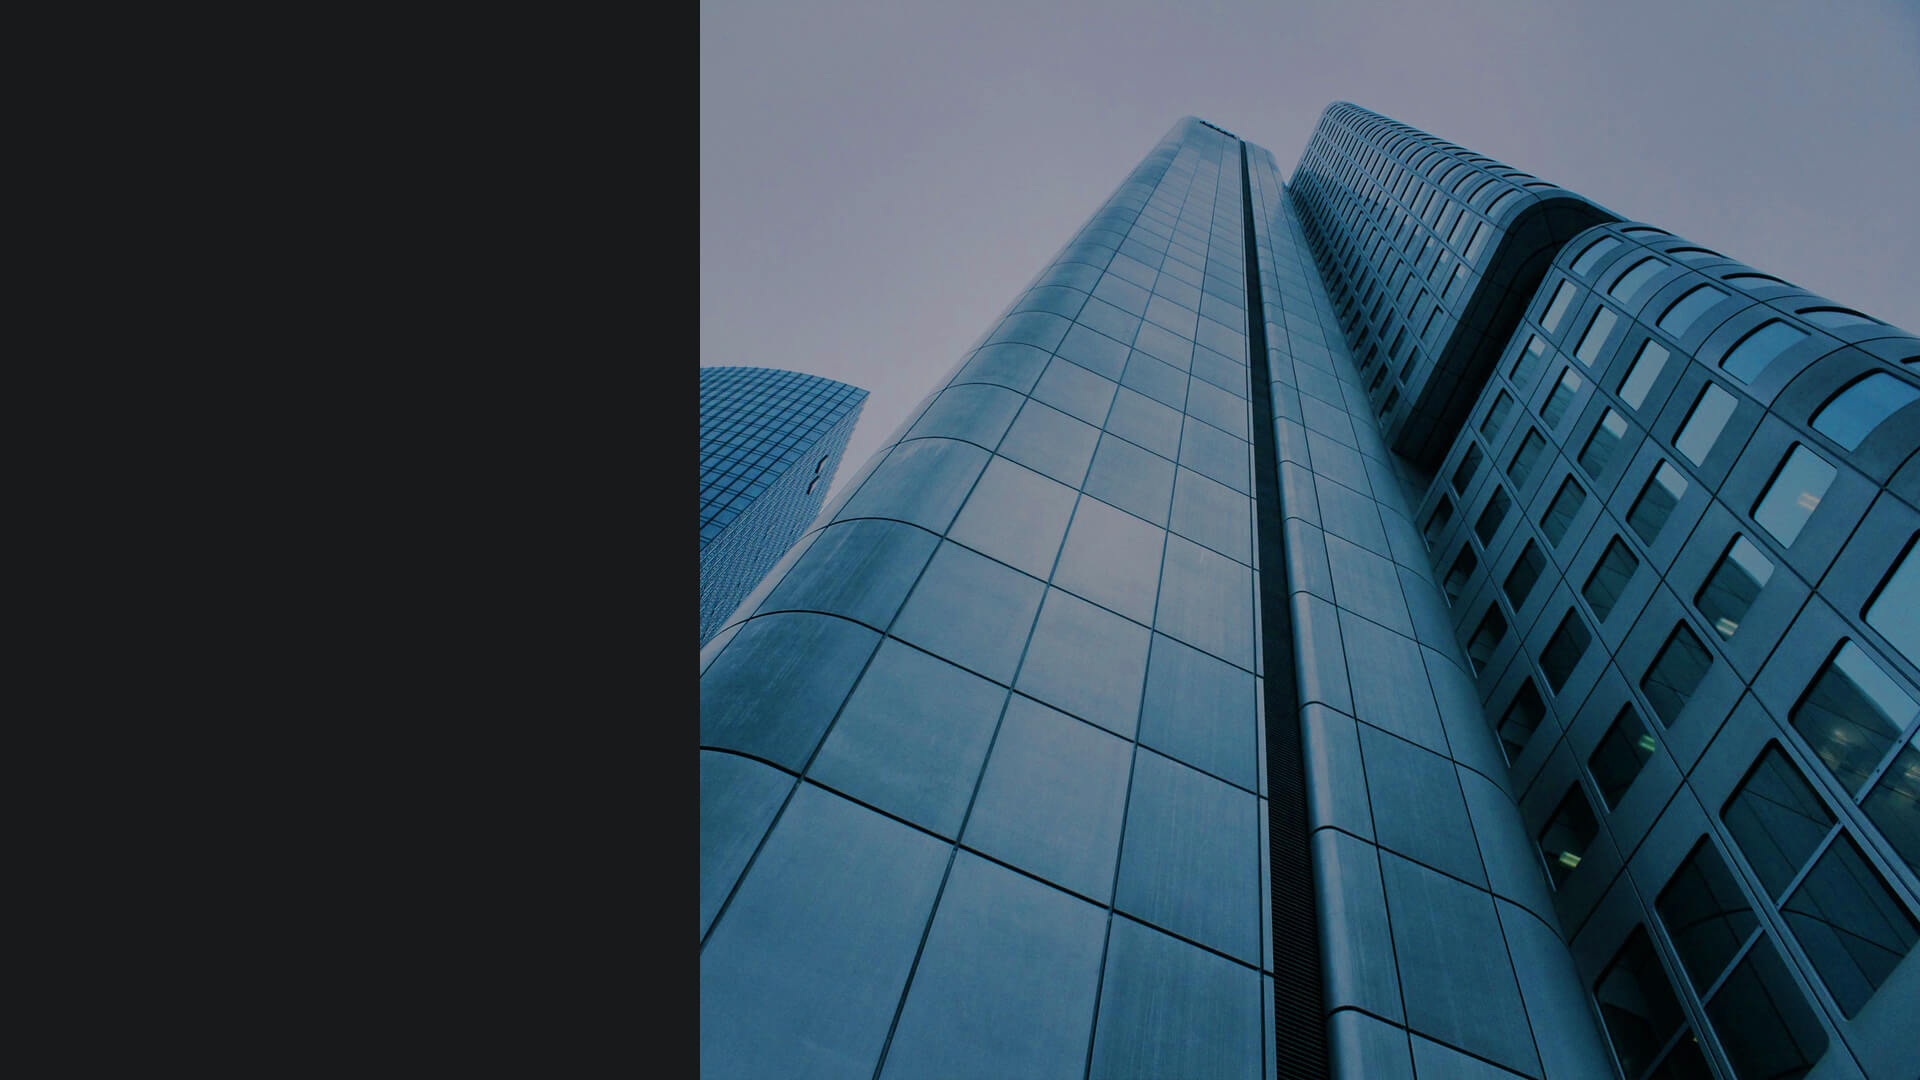
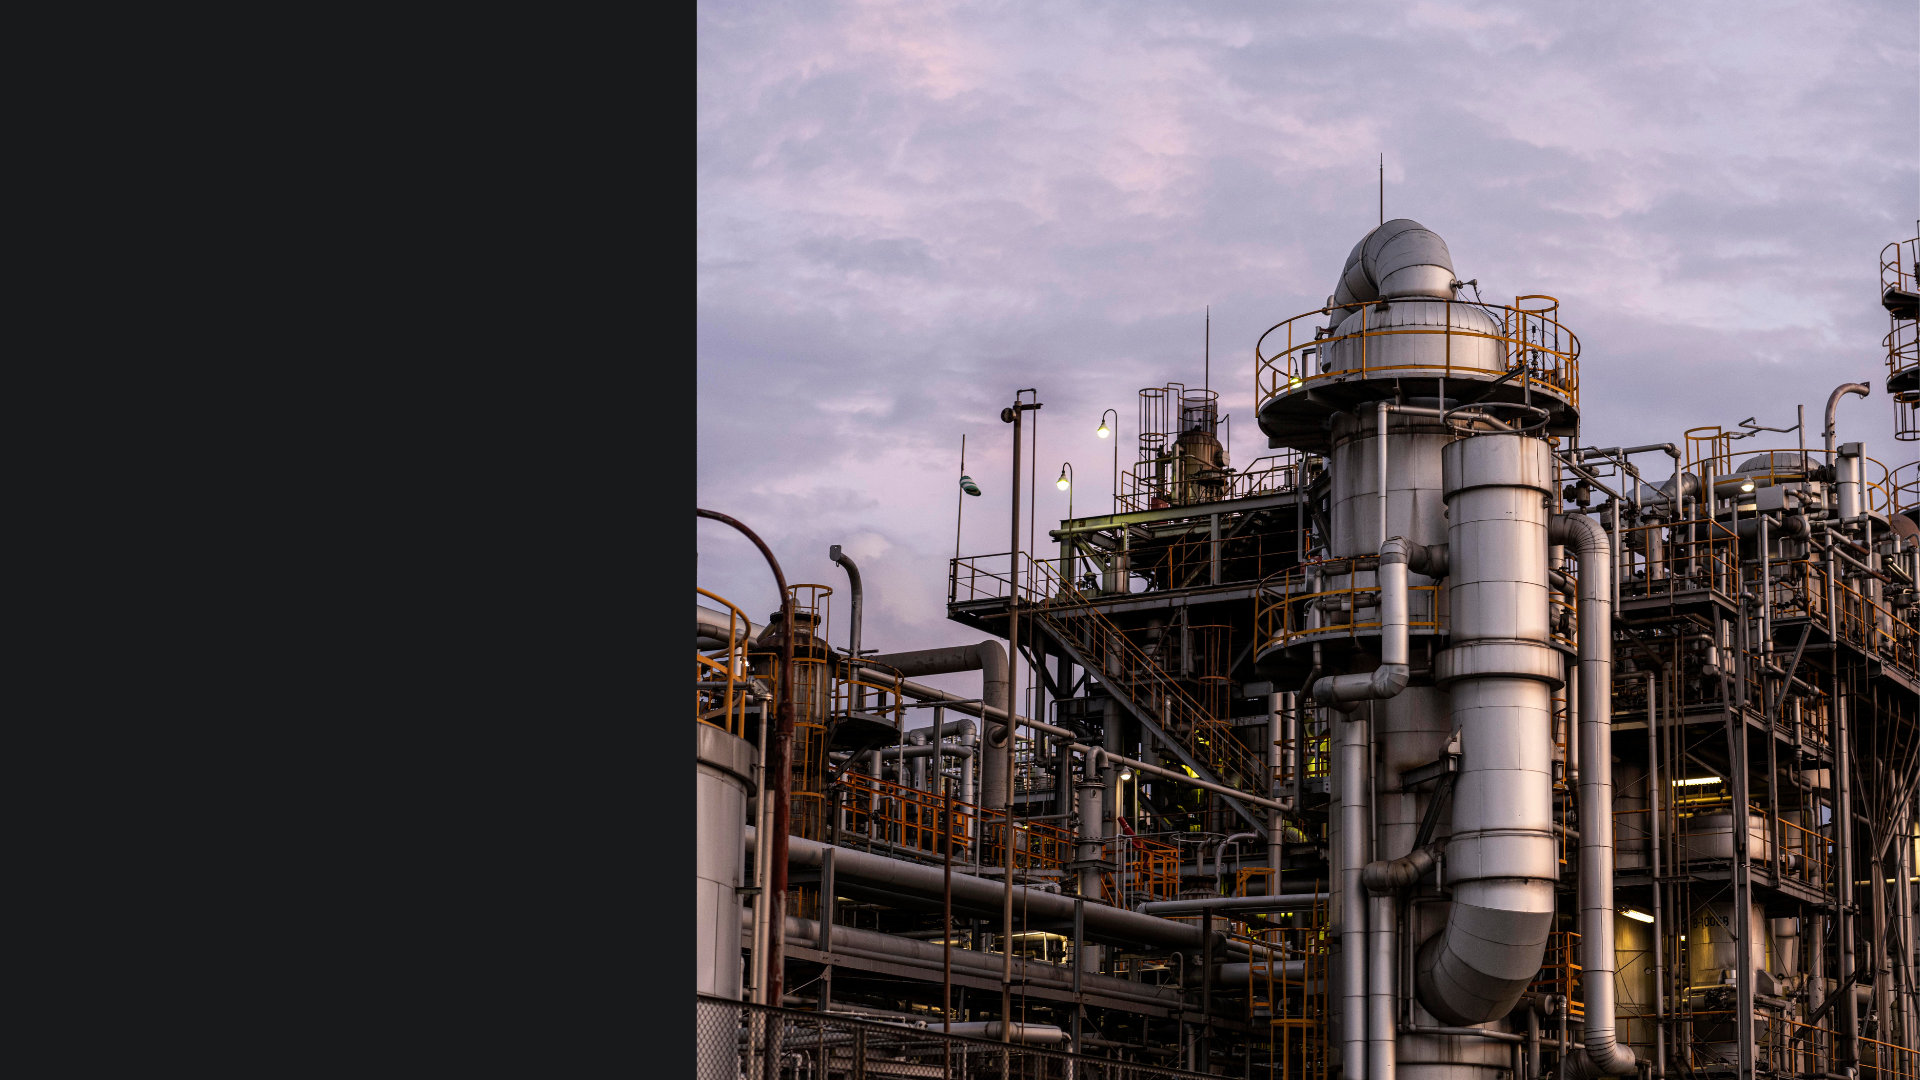
Increase carousel text size by 1.5x on mobile devices

diff --git a/about.html b/about.html
@@ -47,16 +47,6 @@
             line-height: 1.6;
         }
         
-        /* Mobile carousel text size increase */
-        @media (max-width: 768px) {
-            .tp-caption.big-white {
-                font-size: 52px !important;
-            }
-            .tp-caption.ultra-big-white {
-                font-size: 288px !important;
-            }
-        }
-        
         .de_nav li.active {
             background-color: #e8e8e8;
             border-radius: 50%;

diff --git a/index.html b/index.html
@@ -38,16 +38,6 @@
             margin-bottom: 8px;
             line-height: 1.6;
         }
-        
-        /* Mobile carousel text size increase */
-        @media (max-width: 768px) {
-            .tp-caption.size-72 {
-                font-size: 288px !important;
-            }
-            .tp-caption.size-20 {
-                font-size: 80px !important;
-            }
-        }
     </style>
         
     <!-- RS5.0 Stylesheet -->

diff --git a/css/rev-settings.css b/css/rev-settings.css
@@ -190,3 +190,22 @@ border-bottom:solid 1px rgba(255,255,255,.3);
 	font-size:48px;
 	line-height:1.2em;
 }
+/* Mobile responsive - increase carousel text by 1.5x */
+@media (max-width: 768px) {
+	.big-white {
+		font-size: 22.5px;
+	}
+	
+	.ultra-big-white {
+		font-size: 108px;
+		letter-spacing: 10px;
+	}
+	
+	.size-20 {
+		font-size: 30px;
+	}
+	
+	.size-72 {
+		font-size: 108px;
+	}
+}
